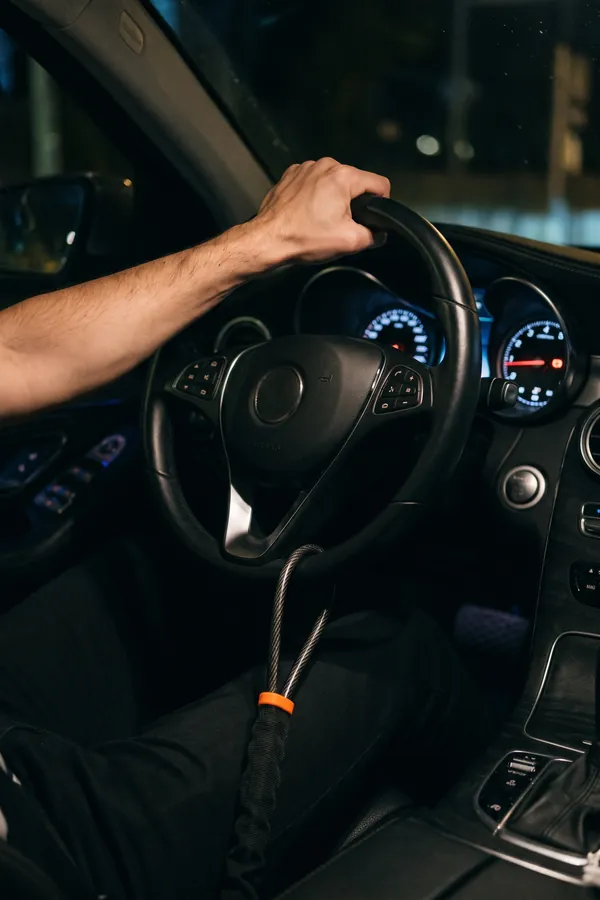
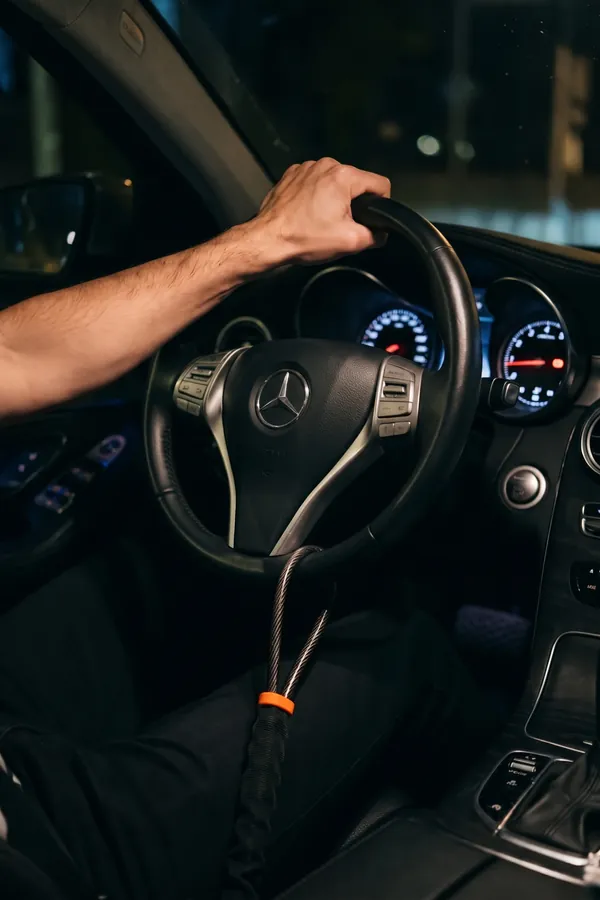
feat(trabavolante): carrera de tiempos bajo la comparativa y fotos nuevas
- TimeRace: dos barras animadas (al entrar en pantalla) con lo que lleva
  poner cada uno: Titan PRO en 3 segundos, la traba común paso a paso y sin
  tiempo inventado. Sección propia pegada a la tabla, sin tocar
  ComparisonTable (el llavero queda igual).
- Recorte nuevo del Titan en la tabla, sin restos de fondo.
- Qué incluye y volante inmóvil regenerados (logo en la caja, emblema).

diff --git a/components/sections/TimeRace.tsx b/components/sections/TimeRace.tsx
@@ -1,0 +1,195 @@
+"use client";
+
+/**
+ * Carrera de tiempos debajo de la comparativa de /trabavolante: dos barras
+ * que se llenan cuando la sección entra en pantalla. La nuestra se completa
+ * enseguida ("3 segundos"); la de la traba común avanza lenta, paso a paso,
+ * y termina sin tiempo (no lo medimos, así que no lo inventamos).
+ *
+ * Va como sección propia, con el fondo de la comparativa (`bg="ink"`) y
+ * subida sobre su padding de abajo, para que se lea como parte de la tabla
+ * sin tocar ComparisonTable (que comparten el llavero y el Tornado).
+ *
+ * Arranca una sola vez, al verse a la mitad. Con "reducir movimiento" se
+ * muestra directo el final. Sin JS (o antes de hidratar) también se ve el
+ * final: el estado inicial vacío lo pone el efecto, no el HTML.
+ */
+import { useEffect, useRef, useState } from "react";
+import type { TimeRace as TimeRaceData } from "@/lib/landings/types";
+import { Icon } from "@/components/ui/Icon";
+
+/** Cuánto tarda cada barra, en ms. La nuestra, rápido; la otra, a paso de bastón. */
+const OURS_MS = 1200;
+const OTHER_MS = 6000;
+
+type Phase = "static" | "idle" | "run";
+
+export function TimeRace({ data }: { data: TimeRaceData }) {
+  const ref = useRef<HTMLDivElement>(null);
+  // 'static' = final sin animar (HTML del server y reducir movimiento)
+  const [phase, setPhase] = useState<Phase>("static");
+
+  useEffect(() => {
+    const el = ref.current;
+    if (!el || window.matchMedia("(prefers-reduced-motion: reduce)").matches)
+      return;
+    if (!("IntersectionObserver" in window)) return;
+    setPhase("idle");
+    const obs = new IntersectionObserver(
+      ([e]) => {
+        if (e.isIntersecting) {
+          setPhase("run");
+          obs.disconnect();
+        }
+      },
+      { threshold: 0.5 },
+    );
+    obs.observe(el);
+    return () => obs.disconnect();
+  }, []);
+
+  const full = phase !== "idle";
+  const animate = phase === "run";
+  const { ours, other } = data;
+  const i = data.title.indexOf(data.accent);
+
+  return (
+    <section className="-mt-4 bg-ink-900 px-4 pb-14 sm:-mt-6 sm:pb-20 md:-mt-10 md:px-6 md:pb-28">
+      <div ref={ref} className="mx-auto max-w-xl">
+        <div className="text-center">
+          {data.eyebrow && <p className="eyebrow">{data.eyebrow}</p>}
+          <h3 className="heading-display mt-2 text-xl leading-tight sm:text-2xl md:text-3xl">
+            {i >= 0 ? (
+              <>
+                {data.title.slice(0, i)}
+                <span className="text-accent">{data.accent}</span>
+                {data.title.slice(i + data.accent.length)}
+              </>
+            ) : (
+              data.title
+            )}
+          </h3>
+        </div>
+
+        <div className="mt-8 space-y-7 rounded-3xl bg-ink-950 p-5 ring-1 ring-inset ring-white/[0.07] sm:p-7">
+          <Row
+            name={ours.name}
+            right={
+              <span
+                className="inline-flex items-center gap-1.5 font-display text-sm font-black uppercase italic text-white transition-opacity duration-300 sm:text-base"
+                style={{
+                  opacity: full ? 1 : 0,
+                  transitionDelay: animate ? `${OURS_MS}ms` : "0ms",
+                }}
+              >
+                <span className="inline-flex h-5 w-5 items-center justify-center rounded-full bg-accent">
+                  <Icon name="check" className="h-3 w-3" />
+                </span>
+                {ours.time}
+              </span>
+            }
+            fill="bg-accent"
+            ms={OURS_MS}
+            full={full}
+            animate={animate}
+            steps={ours.steps}
+            ours
+          />
+          <Row
+            name={other.name}
+            right={
+              <span
+                className="text-xs italic text-ink-400 transition-opacity duration-500 sm:text-sm"
+                style={{
+                  opacity: full ? 1 : 0,
+                  transitionDelay: animate ? `${OTHER_MS}ms` : "0ms",
+                }}
+              >
+                {other.endLabel}
+              </span>
+            }
+            fill="bg-ink-500"
+            ms={OTHER_MS}
+            full={full}
+            animate={animate}
+            steps={other.steps}
+          />
+        </div>
+
+        <p className="mx-auto mt-6 max-w-md text-center text-sm leading-relaxed text-ink-300 sm:text-base">
+          {data.note}
+        </p>
+      </div>
+    </section>
+  );
+}
+
+function Row({
+  name,
+  right,
+  fill,
+  ms,
+  full,
+  animate,
+  steps,
+  ours = false,
+}: {
+  name: string;
+  right: React.ReactNode;
+  fill: string;
+  ms: number;
+  full: boolean;
+  animate: boolean;
+  steps: readonly string[];
+  ours?: boolean;
+}) {
+  return (
+    <div>
+      <div className="flex items-baseline justify-between gap-3">
+        <span
+          className={`font-display text-sm font-black uppercase italic sm:text-base ${
+            ours ? "text-white" : "text-ink-300"
+          }`}
+        >
+          {name}
+        </span>
+        {right}
+      </div>
+
+      {/* Barra */}
+      <div className="mt-3 h-3 overflow-hidden rounded-full bg-white/[0.08]">
+        <div
+          className={`h-full rounded-full ${fill}`}
+          style={{
+            width: full ? "100%" : "0%",
+            transition: animate
+              ? `width ${ms}ms ${ours ? "cubic-bezier(.2,.8,.2,1)" : "linear"}`
+              : "none",
+          }}
+        />
+      </div>
+
+      {/* Pasos: aparecen a medida que avanza la barra */}
+      <ol className="mt-3 flex flex-wrap gap-1.5">
+        {steps.map((s, n) => (
+          <li
+            key={s}
+            className={`rounded-full px-2.5 py-1 text-[11px] font-semibold sm:text-xs ${
+              ours ? "bg-accent/15 text-white" : "bg-white/[0.06] text-ink-300"
+            }`}
+            style={{
+              opacity: full ? 1 : 0,
+              transform: full ? "none" : "translateY(4px)",
+              transition: animate ? "opacity 300ms, transform 300ms" : "none",
+              transitionDelay: animate
+                ? `${Math.round(((n + 0.6) / steps.length) * ms)}ms`
+                : "0ms",
+            }}
+          >
+            {s}
+          </li>
+        ))}
+      </ol>
+    </div>
+  );
+}

diff --git a/lib/landings/trabavolante.ts b/lib/landings/trabavolante.ts
@@ -369,7 +369,7 @@ export const TRABAVOLANTE = {
     title: 'No es un trabavolante más.',
     accent: 'más.',
     columns: [
-      { name: 'Titan PRO™', image: '/trabavolante/comparativa/titan-pro.webp', width: 170, height: 320 },
+      { name: 'Titan PRO™', image: '/trabavolante/comparativa/titan-pro.webp', width: 235, height: 420 },
       { name: 'Trabas comunes', image: '/trabavolante/comparativa/trabas-comunes.webp', width: 339, height: 382 },
     ],
     rows: [
@@ -381,6 +381,23 @@ export const TRABAVOLANTE = {
       { label: 'Se ancla al cinturón', values: [true, false] },
       { label: 'No raya el volante', values: [true, false] },
     ],
+  },
+  /**
+   * Debajo de la comparativa: cuánto lleva ponerlo. El "3 segundos" es la
+   * promesa del título; la traba común va por pasos y sin tiempo, porque no
+   * lo medimos.
+   */
+  timeRace: {
+    eyebrow: 'Cada vez que te bajás',
+    title: 'Lo que tardás en trabar el auto',
+    accent: 'trabar el auto',
+    ours: { name: 'Titan PRO™', time: '3 segundos', steps: ['Envolvés', 'Enganchás', 'Listo'] },
+    other: {
+      name: 'Traba común',
+      endLabel: 'Todavía no terminaste',
+      steps: ['La sacás del baúl', 'La armás', 'La calzás en el volante', 'La cerrás con llave'],
+    },
+    note: 'Por eso el bastón termina en el baúl. El mejor trabavolante es el que usás todas las noches.',
   },
   faq: [
     {

diff --git a/lib/landings/types.ts b/lib/landings/types.ts
@@ -259,6 +259,8 @@ export type LandingConfig = {
   videoShowcase?: VideoShowcaseData;
   /** Tabla comparativa (`ComparisonTable`, la del llavero). Opcional. */
   comparison?: AdvertorialData['comparison'];
+  /** Animación de tiempos debajo de la comparativa (/trabavolante). */
+  timeRace?: TimeRace;
   ratingBreakdown: {
     average: number;
     total: number;
@@ -336,6 +338,18 @@ export type MediaSlot = {
 export type SectionTitle = { eyebrow?: string; title: string; accent: string };
 
 export type ComparisonColumn = { name: string; image: string; width: number; height: number };
+
+/**
+ * "Carrera" animada debajo de la comparativa (/trabavolante): cuánto lleva
+ * poner cada uno. Lo nuestro muestra su tiempo; lo otro, sólo los pasos (sin
+ * inventar un tiempo que no medimos).
+ */
+export type TimeRace = SectionTitle & {
+  ours: { name: string; time: string; steps: readonly string[] };
+  other: { name: string; endLabel: string; steps: readonly string[] };
+  /** Frase de cierre debajo de las barras. */
+  note: string;
+};
 
 export type AdvertorialData = {
   /** El copy del hero sale de `headlines`, como en las otras landings. */

diff --git a/app/trabavolante/page.tsx b/app/trabavolante/page.tsx
@@ -33,6 +33,7 @@ import { WhatsInBox } from '@/components/sections/WhatsInBox';
 import { CarBrands } from '@/components/sections/CarBrands';
 import { HowItWorks } from '@/components/sections/HowItWorks';
 import { ComparisonTable } from '@/components/advertorial/ComparisonTable';
+import { TimeRace } from '@/components/sections/TimeRace';
 import { Pricing } from '@/components/sections/Pricing';
 import { Reviews } from '@/components/sections/Reviews';
 import { ReviewsExpandable } from '@/components/sections/ReviewsExpandable';
@@ -156,6 +157,8 @@ export default async function TrabavolantePage() {
 
         {/* 7. Comparativa: Titan PRO vs. trabas comunes */}
         <ComparisonTable comparison={TRABAVOLANTE.comparison} bg="ink" />
+        {/* Pegada a la tabla (mismo fondo): cuánto lleva poner cada uno, animado */}
+        <TimeRace data={TRABAVOLANTE.timeRace} />
 
         {/* Sin BenefitsShowcase ("Pensado para la calle argentina"): lo que
             decía ya está en los cuadros, la comparativa y las FAQ. */}
